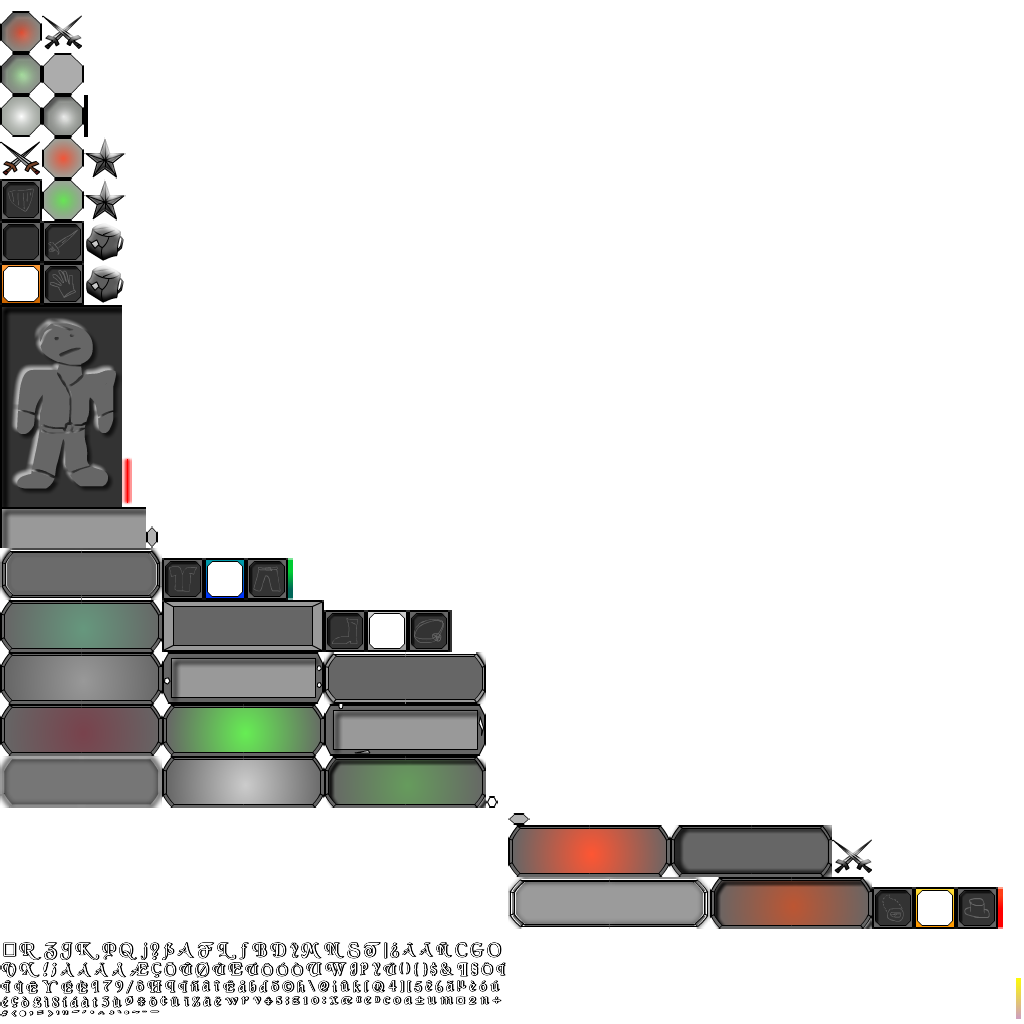
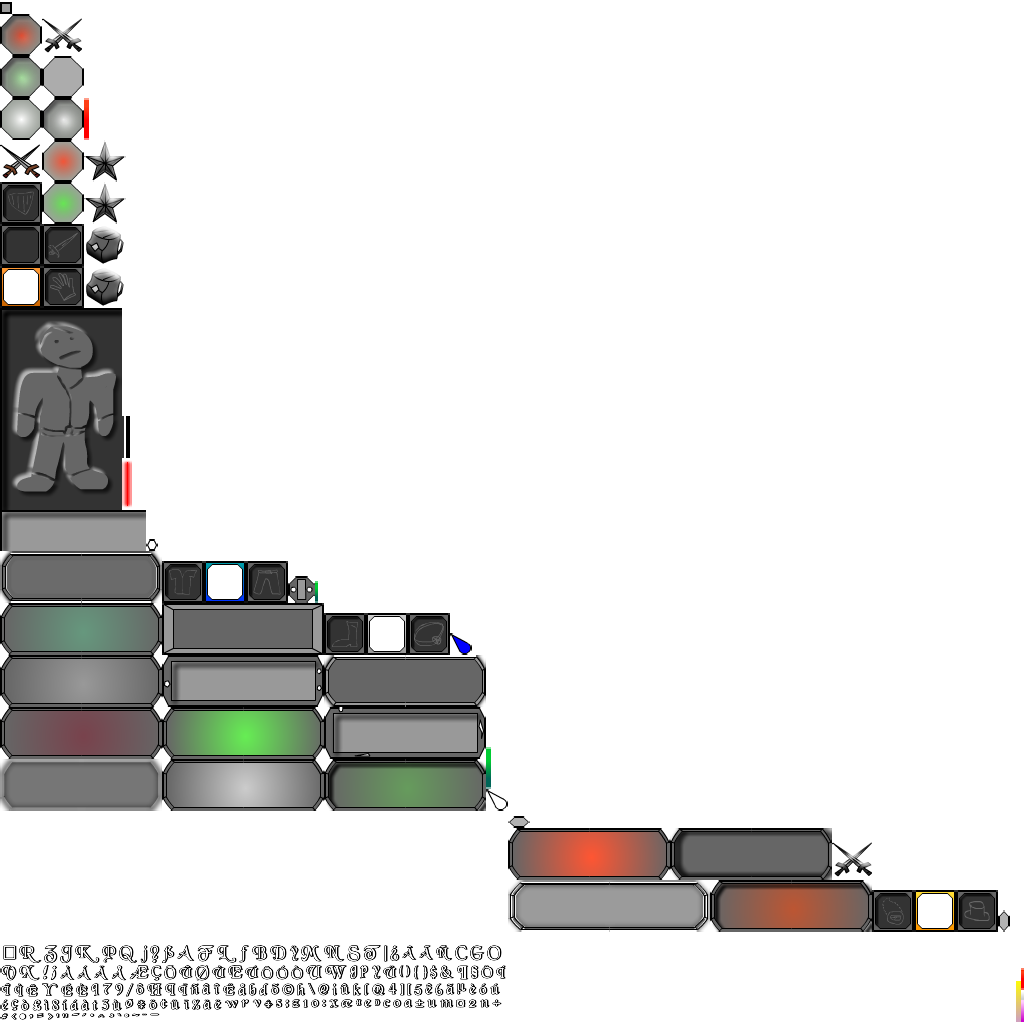
Graphic for cast bar, monster hp and stm bars

diff --git a/core/src/ru/rdude/rpg/game/ui/StmBar.java b/core/src/ru/rdude/rpg/game/ui/StmBar.java
@@ -7,9 +7,11 @@ import com.badlogic.gdx.scenes.scene2d.ui.ProgressBar;
 import com.badlogic.gdx.utils.Align;
 import com.fasterxml.jackson.annotation.JsonIgnoreType;
 import ru.rdude.rpg.game.logic.entities.beings.Being;
+import ru.rdude.rpg.game.logic.entities.beings.Player;
 import ru.rdude.rpg.game.logic.entities.skills.Buff;
 import ru.rdude.rpg.game.logic.entities.skills.Damage;
 import ru.rdude.rpg.game.logic.entities.skills.SkillResult;
+import ru.rdude.rpg.game.logic.enums.BeingType;
 import ru.rdude.rpg.game.logic.stats.Stat;
 import ru.rdude.rpg.game.logic.stats.StatObserver;
 import ru.rdude.rpg.game.logic.stats.secondary.Stm;
@@ -39,8 +41,9 @@ public class StmBar extends Group implements StatObserver {
         stm.subscribe(this);
         stm.max().subscribe(this);
 
+        String type = being instanceof Player || being.beingTypes().getCurrent().contains(BeingType.BOSS) ? "stm" : "stm_small";
         progressBar = new ProgressBar(0, (float) stm.max().value(),
-                1, false, UiData.DEFAULT_SKIN, "stm");
+                1, false, UiData.DEFAULT_SKIN, type);
         progressBar.setValue((float) stm.value());
         progressBar.setAnimateDuration(0.3f);
 

diff --git a/core/src/ru/rdude/rpg/game/ui/HpBar.java b/core/src/ru/rdude/rpg/game/ui/HpBar.java
@@ -7,8 +7,10 @@ import com.badlogic.gdx.scenes.scene2d.ui.ProgressBar;
 import com.badlogic.gdx.utils.Align;
 import com.fasterxml.jackson.annotation.JsonIgnoreType;
 import ru.rdude.rpg.game.logic.entities.beings.Being;
+import ru.rdude.rpg.game.logic.entities.beings.Player;
 import ru.rdude.rpg.game.logic.entities.skills.Buff;
 import ru.rdude.rpg.game.logic.entities.skills.Damage;
+import ru.rdude.rpg.game.logic.enums.BeingType;
 import ru.rdude.rpg.game.logic.stats.Stat;
 import ru.rdude.rpg.game.logic.stats.StatObserver;
 import ru.rdude.rpg.game.logic.stats.secondary.Hp;
@@ -40,8 +42,9 @@ public class HpBar extends Group implements StatObserver {
         hp.subscribe(this);
         hp.max().subscribe(this);
 
+        String type = being instanceof Player || being.beingTypes().getCurrent().contains(BeingType.BOSS) ? "hp" : "hp_small";
         progressBar = new ProgressBar(0, (float) hp.max().value(),
-                1, false, UiData.DEFAULT_SKIN, "hp");
+                1, false, UiData.DEFAULT_SKIN, type);
         progressBar.setValue((float) hp.value());
         progressBar.setAnimateDuration(0.3f);
 

diff --git a/core/src/ru/rdude/rpg/game/ui/CastBar.java b/core/src/ru/rdude/rpg/game/ui/CastBar.java
@@ -19,7 +19,7 @@ public class CastBar extends VerticalGroup {
 
     private Cast cast;
 
-    private final ProgressBar progressBar = new ProgressBar(0f, 0f, 1f, false, UiData.DEFAULT_SKIN, "hp");
+    private final ProgressBar progressBar = new ProgressBar(0f, 0f, 1f, false, UiData.DEFAULT_SKIN, "concentration");
     private final Label name = new Label("  Name of the spell  ", UiData.DEFAULT_SKIN, UiData.SMALL_TEXT_STYLE);
     private final Label current = new Label("", UiData.DEFAULT_SKIN, UiData.SMALL_TEXT_STYLE);
     private final Label max = new Label("", UiData.DEFAULT_SKIN, UiData.SMALL_TEXT_STYLE);
